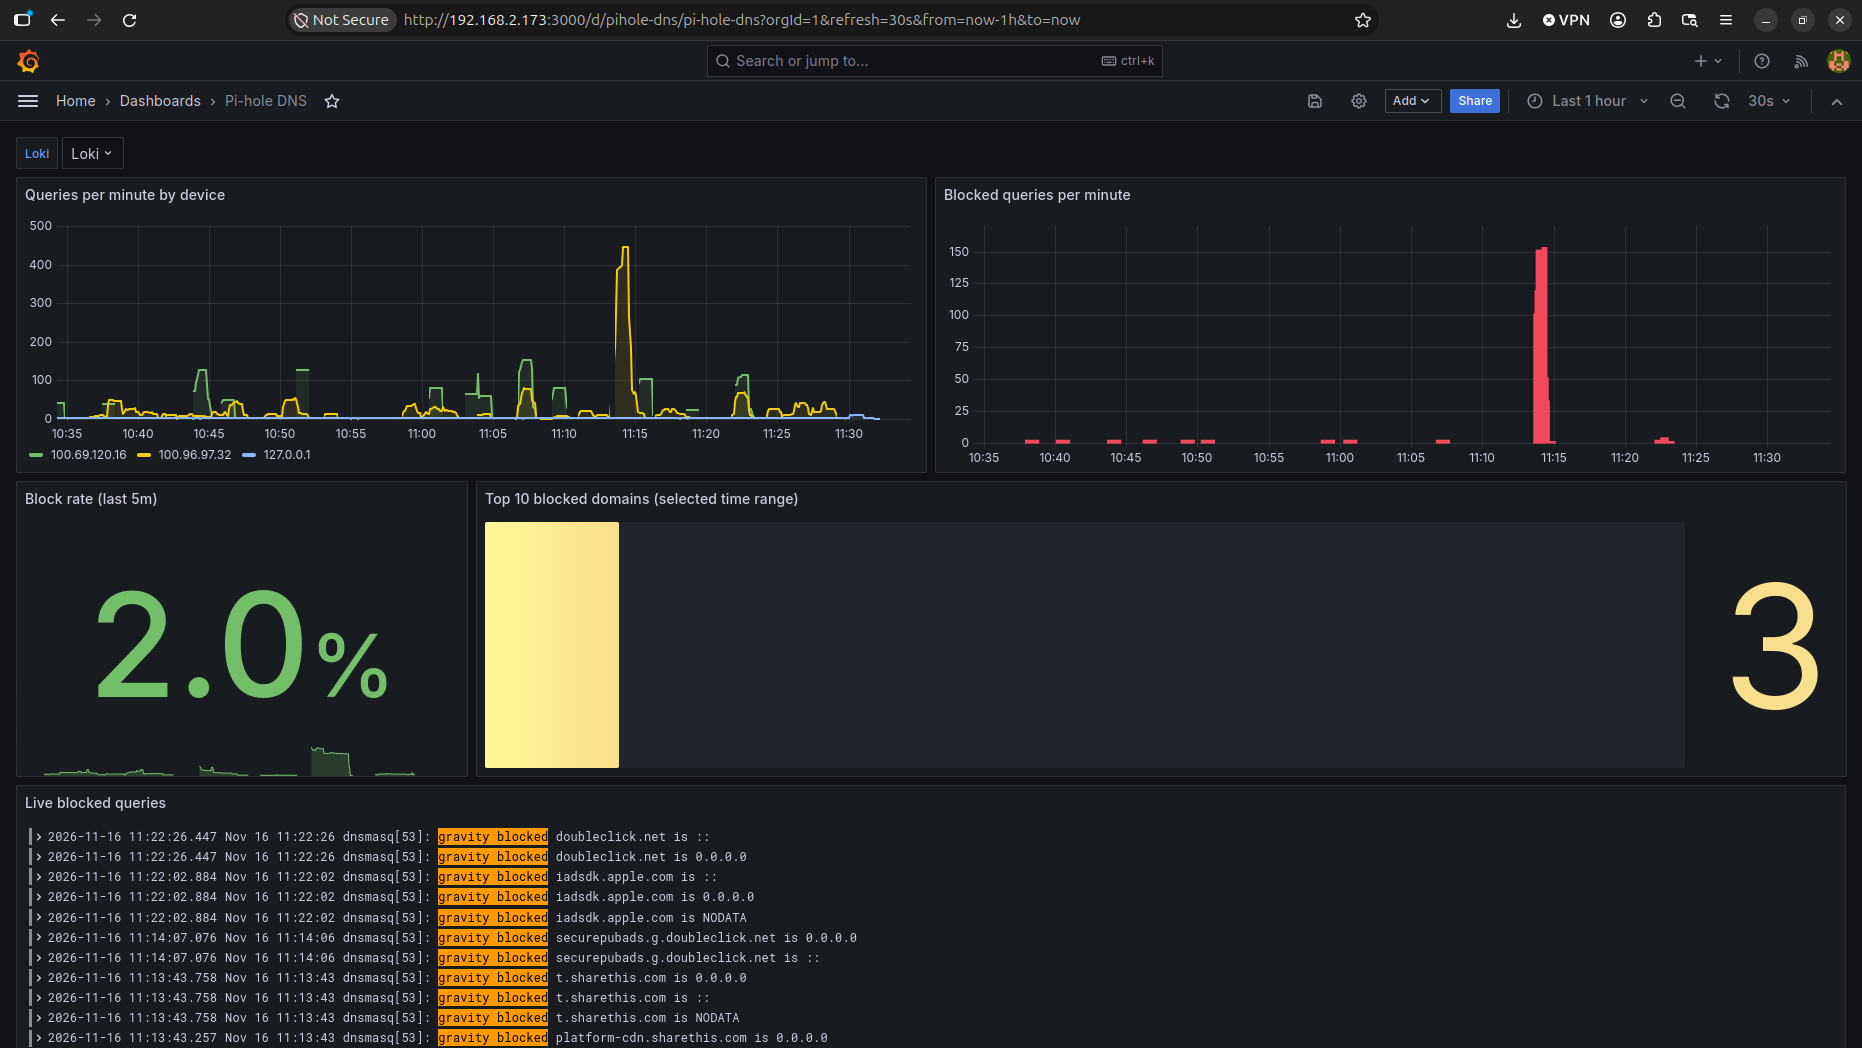
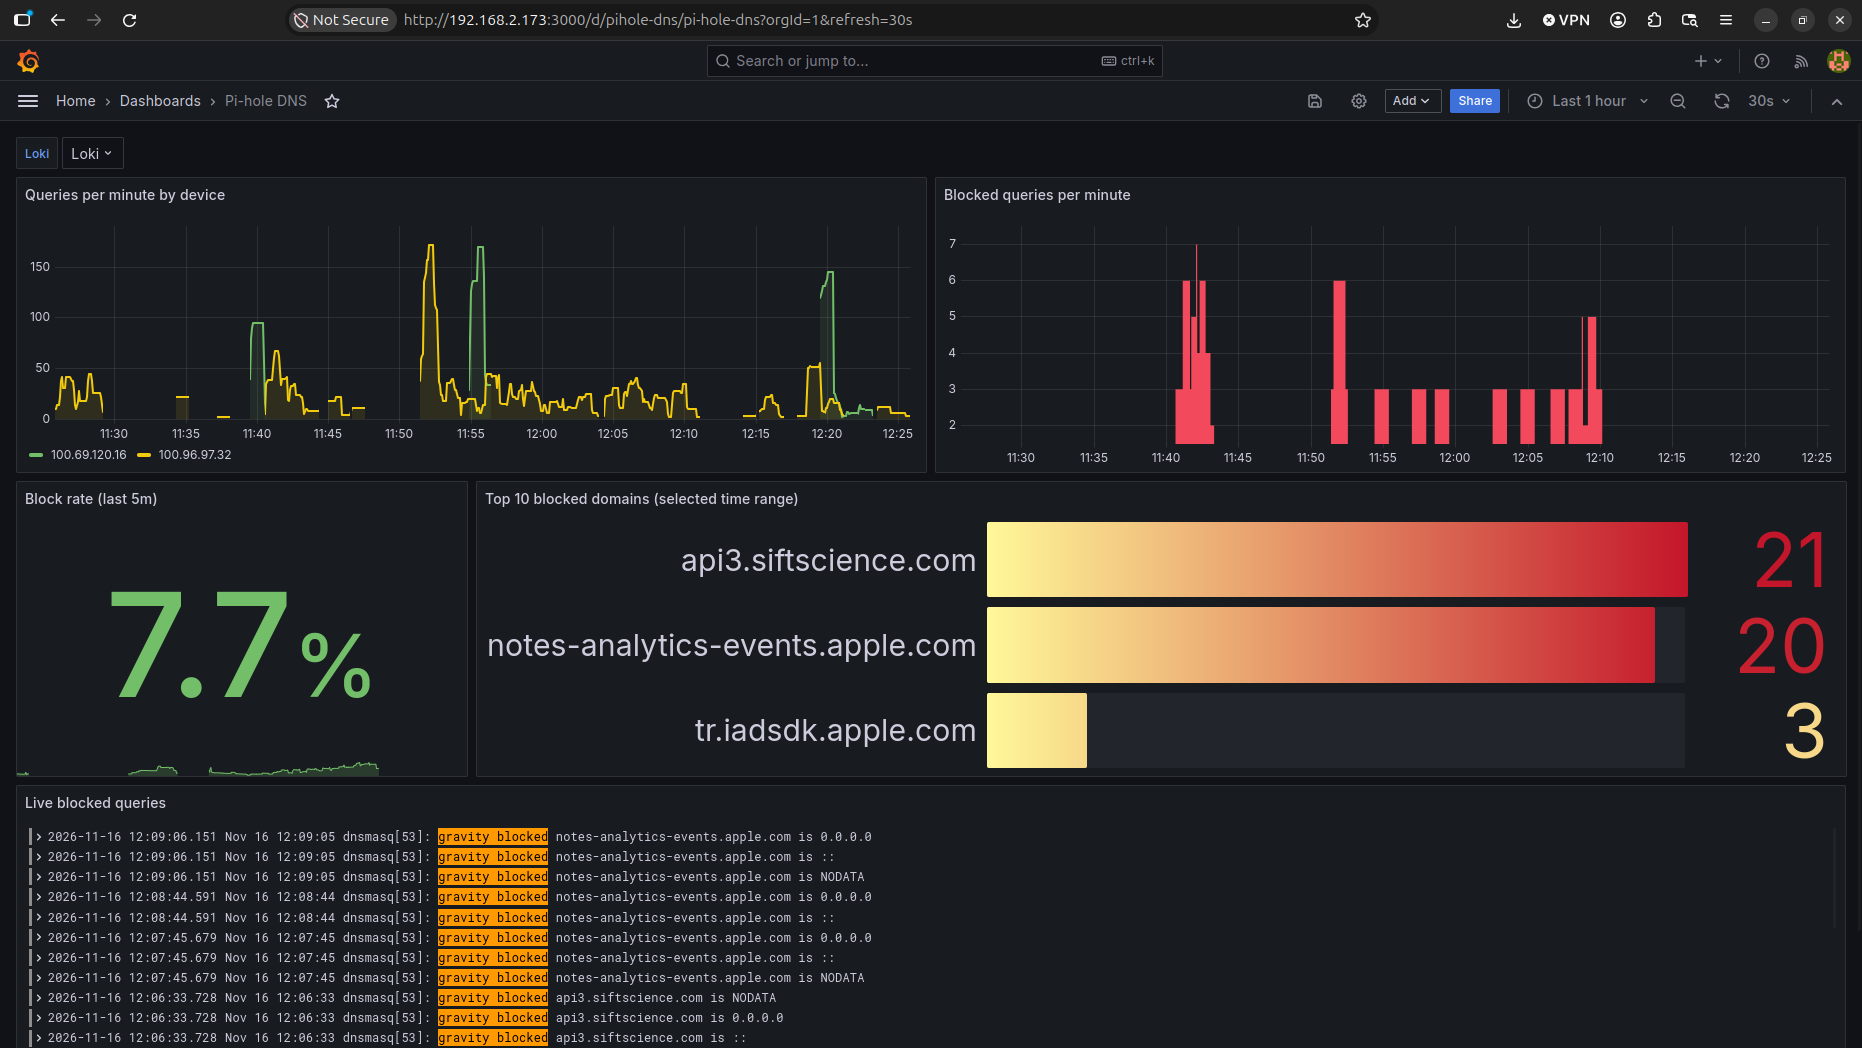
Lab 21: lock admin UI to Tailscale, fix dashboard panels, parse log timestamps
- Bind the Pi-hole web UI to 100.95.125.24:8081 instead of all interfaces
- Top 10 blocked domains panel shows one bar per domain
- Filter the container's 127.0.0.1 health check out of the device panels
- Promtail uses the time on each pihole.log line, not the read time
- Add .env.example, name Google as the upstream, add lab 21 to root README
- Replace the dashboard screenshot with the fixed version

diff --git a/21-pihole-dns/README.md b/21-pihole-dns/README.md
@@ -16,24 +16,28 @@ MacBook (100.69.120.16) ─┐
 iPhone  (100.96.97.32) ──┘                                   │
                                                         Pi-hole (Docker, host network)
                                                              │
-                                          upstream DNS ◄─────┤
+                         upstream DNS (Google 8.8.8.8) ◄─────┤
                                                              │ pihole.log
                                                         Promtail (lab 13) ──> Loki ──> Grafana
 ```
 
 Tailscale's admin console has `100.95.125.24` set as the tailnet's custom nameserver with "Override DNS servers" turned on. Any device on my tailnet with Tailscale connected uses Pi-hole for DNS. The Acer itself is excluded with `tailscale set --accept-dns=false` so its own name resolution does not depend on the container it is hosting.
 
+Pi-hole forwards anything it doesn't block to Google (`8.8.8.8` and `8.8.4.4`) over plain DNS. Blocking happens on my side, but Google still sees every lookup that gets through, and so does anyone on the path between the Acer and Google.
+
 ## Build
 
 ### Freeing port 53 on the host
 
-Ubuntu's systemd-resolved listens on port 53 by default. I disabled its stub listener and pointed `/etc/resolv.conf` at the real resolver file so the host kept working:
+Ubuntu's systemd-resolved listens on port 53 by default. My first attempt bound Pi-hole to `0.0.0.0:53`, which clashed with it, so I disabled its stub listener and pointed `/etc/resolv.conf` at the real resolver file so the host kept working:
 
 ```
 sudo sed -i 's/#DNSStubListener=yes/DNSStubListener=no/' /etc/systemd/resolved.conf
 sudo systemctl restart systemd-resolved
 sudo ln -sf /run/systemd/resolve/resolv.conf /etc/resolv.conf
 ```
+
+With the final config Pi-hole only binds `tailscale0` and `127.0.0.1`, and the stub listener uses `127.0.0.53`, so this step probably isn't needed any more. I've left it in place.
 
 ### Pi-hole container
 
@@ -42,31 +46,31 @@ Final `compose.yaml`:
 ```yaml
 services:
   pihole:
-    image: pihole/pihole:latest
+    image: pihole/pihole:2026.11.0
     container_name: pihole
     network_mode: host
     environment:
+      FTLCONF_ntp_ipv4_active: "false"
+      FTLCONF_ntp_ipv6_active: "false"
+      FTLCONF_ntp_sync_active: "false"
       TZ: America/St_Johns
       FTLCONF_webserver_api_password: ${PIHOLE_PW}
       FTLCONF_dns_listeningMode: BIND
       FTLCONF_dns_interface: tailscale0
-      FTLCONF_webserver_port: "8081"
-      FTLCONF_ntp_ipv4_active: "false"
-      FTLCONF_ntp_ipv6_active: "false"
-      FTLCONF_ntp_sync_active: "false"
+      FTLCONF_webserver_port: "100.95.125.24:8081"
     volumes:
       - ./etc-pihole:/etc/pihole
       - ./logs:/var/log/pihole
     restart: unless-stopped
 ```
 
-The admin password lives in a `.env` file that is gitignored along with `etc-pihole/` and `logs/`.
+The admin password lives in a `.env` file that is gitignored along with `etc-pihole/` and `logs/`. Copy `.env.example` to `.env` and set `PIHOLE_PW` before the first start. If it's empty, Pi-hole runs with no admin password.
 
 Key choices:
 
 - **Host networking** so Pi-hole sees the real client IP of each query (see findings below)
 - **BIND mode on `tailscale0`** so Pi-hole only answers on the tailnet and does not collide with libvirt's dnsmasq
-- **Web UI on port 8081** to stay clear of anything else on the Acer
+- **Web UI on `100.95.125.24:8081`** so the admin page is only reachable over Tailscale. With just `8081` it listened on `0.0.0.0` and anyone on the home Wi-Fi could reach the login page, because `BIND` mode only limits DNS, not the web server. Port 8081 also stays clear of anything else on the Acer
 - **NTP server disabled** because Pi-hole v6 ships one and port 123 was already in use on the host
 
 ### Shipping logs to Loki
@@ -88,7 +92,16 @@ And a new scrape job in `promtail/promtail-config.yaml`:
         labels:
           job: pihole
           __path__: /var/log/pihole/pihole.log
+    pipeline_stages:
+      - regex:
+          expression: '^(?P<ts>\w{3} +\d{1,2} \d{2}:\d{2}:\d{2}) '
+      - timestamp:
+          source: ts
+          format: 'Jan _2 15:04:05'
+          location: America/St_Johns
 ```
+
+The pipeline stages make Loki use the time on each log line instead of the time Promtail read it (see the Promtail finding below). `pihole.log` has no year in its timestamps, so Promtail fills in the current one.
 
 ### Grafana dashboard
 
@@ -96,11 +109,17 @@ The dashboard is in `grafana/pihole-dashboard.json` and can be imported directly
 
 | Panel | Query |
 |---|---|
-| Queries per minute by device | ``sum by (client) (count_over_time({job="pihole"} \|= "query[" \| regexp `from (?P<client>\S+)` [1m]))`` |
+| Queries per minute by device | ``sum by (client) (count_over_time({job="pihole"} \|= "query[" != "from 127.0.0.1" \| regexp `from (?P<client>\S+)` [1m]))`` |
 | Blocked queries per minute | `sum(count_over_time({job="pihole"} \|= "gravity blocked" [1m]))` |
-| Block rate (last 5m) | blocked count over 5m divided by total queries over 5m, times 100 |
+| Block rate (last 5m) | blocked count over 5m divided by total queries over 5m (excluding `127.0.0.1`), times 100 |
 | Top 10 blocked domains | ``topk(10, sum by (domain) (count_over_time({job="pihole"} \|= "gravity blocked" \| regexp `gravity blocked (?P<domain>\S+)` [$__range])))`` (instant query) |
 | Live blocked queries | `{job="pihole"} \|= "gravity blocked"` |
+
+Some notes on the numbers:
+
+- Queries from `127.0.0.1` are filtered out. They're the container's own health check looking up `pi.hole` every 30 seconds, not a device.
+- The counts are log lines, not lookups. A browser usually asks for A, AAAA and HTTPS records for the same name, so one blocked domain often counts as 2 or 3. The block rate isn't affected, because both sides are counted the same way.
+- The Top 10 panel has **Show: All values** set. Without it, Grafana reduces the Loki result to a single bar with no domain names.
 
 ## Verification
 
@@ -119,6 +138,15 @@ $ dig doubleclick.net +short
 ```
 
 In Pi-hole's query log, blocked lookups show up tagged with each device's own Tailscale IP: the iPhone's ad and tracker requests (stackadapt, onetag, ipredictive, adsafeprotected) from `100.96.97.32` and the `doubleclick.net` test from the Mac at `100.69.120.16`.
+
+The admin UI only listens on the Tailscale address:
+
+```
+$ ss -tlnp | grep 8081
+LISTEN 0      200      100.95.125.24:8081       0.0.0.0:*
+```
+
+From the Acer, `http://100.95.125.24:8081/admin/` answers and `http://192.168.2.173:8081/admin/` (its home LAN address) doesn't connect.
 
 Loki confirmed ingestion through its HTTP API:
 
@@ -141,7 +169,7 @@ curl -G -s http://localhost:3100/loki/api/v1/query_range \
 
 **Pi-hole v6 includes an NTP server.** In host mode it tried to bind `0.0.0.0:123`, found it taken, and raised a diagnosis warning. I turned off its NTP server and time sync since the Acer already handles time.
 
-**Promtail ingests an existing log file all at once.** When the new scrape job started, Promtail read the whole existing `pihole.log` in one pass and stamped every line with the ingestion time, which produced a single large spike on the graphs. It only happens once, but it is worth knowing before trusting the first few minutes of data on a new log source.
+**Promtail ingests an existing log file all at once.** When the new scrape job started, Promtail read the whole existing `pihole.log` in one pass and stamped every line with the ingestion time, which produced a single large spike on the graphs. It isn't only a first-run problem. Any Promtail restart or catch-up does the same thing to the lines it reads late. The fix was a `timestamp` stage in the scrape job so Loki uses the time written on each line. Data ingested before that change keeps the wrong times.
 
 ## Limitations
 
@@ -149,6 +177,7 @@ curl -G -s http://localhost:3100/loki/api/v1/query_range \
 - iCloud Private Relay had to be turned off, since it can route Safari's DNS around the configured resolver
 - If the Acer is off, my devices lose DNS while Tailscale is connected. A second Pi-hole on another tailnet node would fix that.
 - This lab depends on the lab 13 Loki and Grafana stack for its logging
+- Upstream DNS is Google over plain DNS. Running unbound as a recursive resolver, or forwarding over DNS over HTTPS, would stop one provider seeing every lookup.
 
 ## Screenshots
 
@@ -173,6 +202,7 @@ Earlier bridge-mode run, before the switch to host networking:
 ```
 21-pihole-dns/
 ├── compose.yaml
+├── .env.example
 ├── .gitignore
 ├── grafana/
 │   └── pihole-dashboard.json

diff --git a/README.md b/README.md
@@ -35,6 +35,7 @@ This is my main hands-on networking lab, where I mix real hardware (two Cisco 88
 | `18-dmvpn-hub-spoke/` | DMVPN hub and spoke on the physical 881s: mGRE, NHRP, EIGRP over the tunnel and IKEv2/IPsec, with before and after packet captures. |
 | `19-zbf-881/` | Zone-based firewall on an 881 with INSIDE, DMZ and OUTSIDE zones, default-deny between zones and live session and counter checks. |
 | `20-noc-in-a-box/` | **Capstone.** Two physical 881 sites over a GNS3 MPLS L3VPN carrier with DMVPN on top, run like a small NOC: syslog, TACACS+, a Grafana/Loki dashboard, Netmiko backups and eight worked incident tickets. |
+| `21-pihole-dns/` | Pi-hole in Docker on the Acer as DNS for my Mac and iPhone over Tailscale, so ad and tracker blocking works away from home, with per-device query logs in Loki and Grafana. |
 
 ## Why hybrid
 
